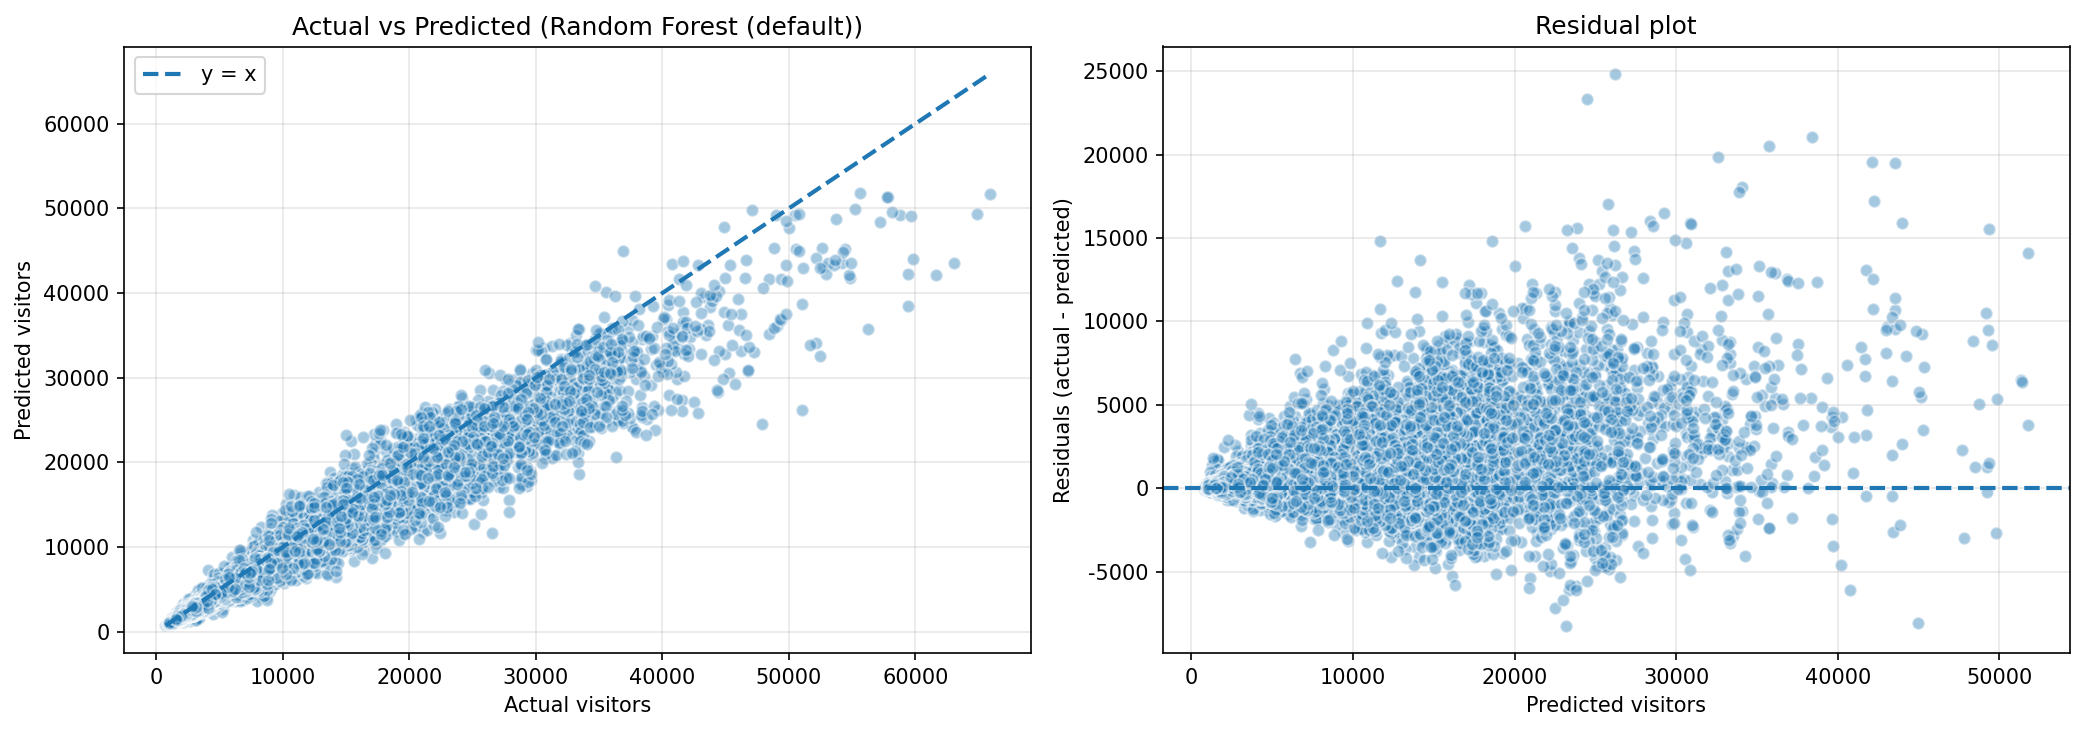
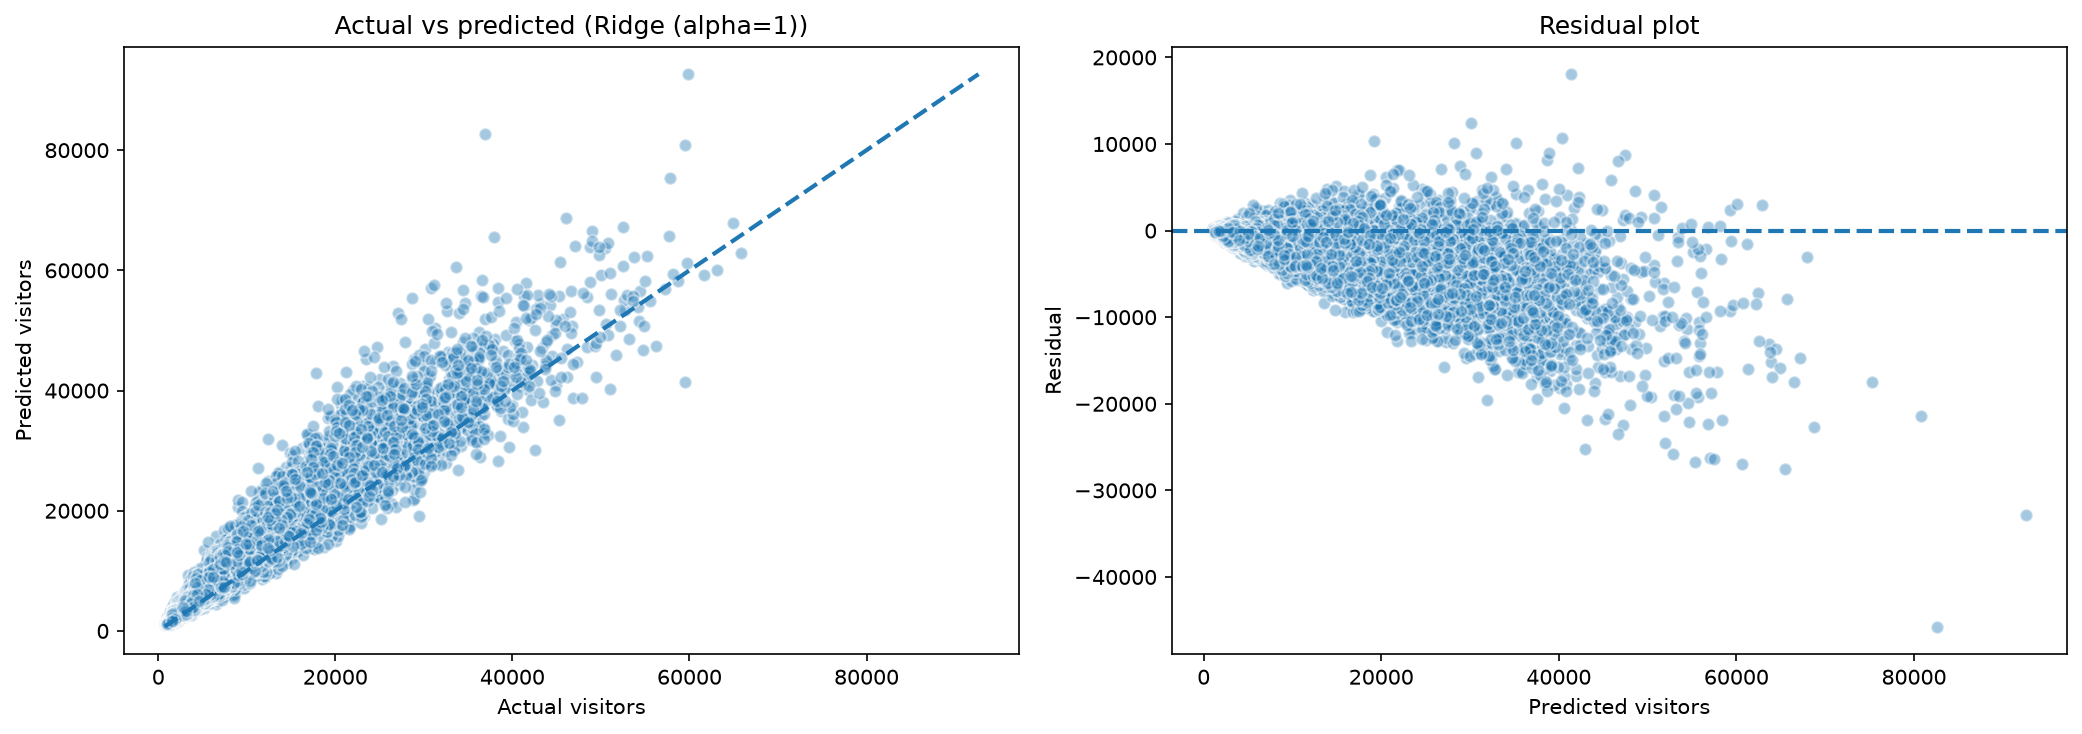
docs: report regenerated holdout results

diff --git a/README.md b/README.md
@@ -1,80 +1,95 @@
 # Seoul Tourism Visitor Forecast
 
-서울 주요 관광지의 일별 방문객 수를 2020-2024년 데이터로 예측하는 회귀 모델 프로젝트입니다. 2020-2023년 데이터를 학습에 사용하고, 2024년 데이터를 테스트셋으로 분리해 시계열 누수를 줄였습니다.
+## Overview
 
-## Project Structure
-
-```text
-tourist-forecast/
-├─ data/
-│  └─ seoul_tourism_2020_2024_clean_common.csv
-├─ docs/
-│  └─ analysis_summary.md
-├─ outputs/
-│  ├─ figures/
-│  └─ tables/
-├─ src/
-│  └─ train_regression_models.py
-├─ .gitignore
-├─ README.md
-└─ requirements.txt
-```
+서울 주요 관광지의 일별 방문객 수를 회귀 모델로 예측하고, 미래 연도에 대한 성능을 시간 순서대로 평가하는 프로젝트입니다. 모델은 방문객 수의 `log1p` 값을 학습하고, 원래 방문객 수 단위로 복원해 MSE, MAE, R²를 계산합니다.
 
 ## Data
 
-- Period: 2020-2024
+- Period: 2020-01-01 through 2024-12-31
+- Unit: day × tourism point of interest (POI)
 - Target: `daily_visitors`
-- Main features: date features, POI attributes, weather, air quality, tourism comfort index, accessibility, event/holiday variables
-- Leakage-prone fields such as `foreign_visitors`, `foreign_share`, and `crowd_level` are excluded from modeling because they are likely unavailable before the visit outcome is observed.
+- Feature groups: calendar, POI attributes, weather, air quality, events, accessibility
 
-## Modeling
+`foreign_visitors`, `foreign_share`, `crowd_level`은 목표값이 관측되기 전에 알 수 있다고 보기 어려워 모델에서 제외합니다. 범주형 인코딩과 결측치 처리는 sklearn `Pipeline`과 `ColumnTransformer` 안에서 학습 기간에만 fit됩니다.
 
-The script compares several regression models on the original visitor-count scale after training with `log1p(daily_visitors)`.
+데이터 제공기관, 원본 URL, 라이선스, 다운로드 날짜, 재배포 가능 여부는 현재 저장소만으로 확인할 수 없습니다. 자세한 TODO는 [`data/README.md`](data/README.md)에 있습니다. 재배포 권한을 확인하기 전에는 포함된 CSV를 공개 배포 가능하다고 가정하면 안 됩니다.
 
-- Baseline: train-set mean prediction
+## Evaluation Design
+
+```text
+2020-2022  train and fit preprocessing
+2023       validation for model and hyperparameter selection
+2020-2023  retrain the selected configuration
+2024       final holdout evaluation
+```
+
+2024 결과는 모델 종류나 하이퍼파라미터 선택에 사용하지 않습니다. Linear Regression, Ridge, Decision Tree와 네 가지 Random Forest 설정을 2023 validation MSE로 비교한 뒤 한 모델을 선택합니다. 선택 후 train+validation 기간으로 다시 학습하고 2024를 최종 평가합니다.
+
+## Models
+
 - Linear Regression
-- Ridge
-- LASSO
+- Ridge (`alpha=1`, `alpha=10`)
 - Decision Tree
-- Random Forest
-- Polynomial Regression
-- Random Forest parameter sweep
+- Random Forest parameter candidates
 
-The final residual and feature-importance analysis uses the best Random Forest model by 2024 test MSE.
+모든 학습 모델은 `log1p(daily_visitors)`를 예측합니다. 평가 전 `expm1`으로 복원하고 음수 예측을 0으로 제한합니다.
 
-## How to Run
+## Baselines
+
+- Train mean: 과거 학습 기간의 전체 평균을 예측
+- POI-month-weekday seasonal mean: 과거 데이터의 `poi_id × month × day_of_week` 평균을 사용하고, 조합이 없으면 POI-month, POI, 전체 평균 순으로 대체
+
+Validation baseline은 2020–2022 타깃만 사용하고, final test baseline은 2020–2023 타깃만 사용합니다. 미래 타깃은 평균 계산에 포함되지 않습니다.
+
+## Results
+
+2023 validation에서 Ridge (`alpha=1`)가 가장 낮은 MSE를 기록해 최종 모델로 선택되었습니다.
+
+| Validation model | MSE | MAE | R² |
+|---|---:|---:|---:|
+| Ridge (`alpha=1`) | 4,079,333.3 | 1,204.1 | 0.9289 |
+| Ridge (`alpha=10`) | 4,152,509.9 | 1,207.8 | 0.9276 |
+| Linear Regression | 4,590,579.1 | 1,304.4 | 0.9199 |
+| Best Random Forest candidate (`RF_C`) | 8,290,972.1 | 1,847.9 | 0.8554 |
+| Seasonal baseline | 24,193,735.1 | 3,332.3 | 0.5781 |
+
+선택된 Ridge를 2020–2023 데이터로 다시 학습한 뒤 얻은 2024 holdout 결과입니다.
+
+| Final 2024 evaluation | MSE | MAE | R² |
+|---|---:|---:|---:|
+| Selected Ridge (`alpha=1`) | 12,643,390.6 | 2,309.2 | 0.8167 |
+| Seasonal baseline | 24,887,899.6 | 3,358.6 | 0.6392 |
+| Train mean baseline | 80,177,671.9 | 5,687.6 | -0.1623 |
+
+이 수치는 수정된 evaluation pipeline을 2026-08-31에 실행해 재생성했습니다. 이전의 Random Forest R² 0.9273 결과는 2024 test set으로 모델을 선택한 평가에서 나온 값이므로 최종 성능으로 유지하지 않습니다.
+
+## Run
 
 ```bash
 pip install -r requirements.txt
 python src/train_regression_models.py
 ```
 
-Running the script creates result files under:
+주요 출력:
 
-- `outputs/figures/`
-- `outputs/tables/`
-
-## Key Outputs
-
-- `outputs/tables/model_comparison_with_rf_sweep.csv`
-- `outputs/tables/rf_parameter_sweep.csv`
-- `outputs/tables/top_feature_importance.csv`
+- `outputs/tables/model_selection_validation.csv`
+- `outputs/tables/rf_parameter_sweep_validation.csv`
+- `outputs/tables/final_test_metrics.csv`
 - `outputs/tables/top_residual_cases.csv`
-- `outputs/figures/model_comparison_with_rf_sweep.png`
-- `outputs/figures/top_feature_importance.png`
-- `outputs/figures/actual_vs_predicted_and_residuals.png`
+- `outputs/tables/evaluation_protocol.json`
+- `outputs/figures/model_selection_validation.png`
+- `outputs/figures/final_test_metrics.png`
 
-## Current Result
+## Data Source
 
-With leakage-prone visitor-derived fields excluded, the best model in the current run is `Random Forest (default)`.
+현재 CSV의 provenance와 재배포 권한은 확인되지 않았습니다. 공개 저장소를 유지하기 전에 원본 수집 기록과 이용 조건을 수동으로 확인해야 합니다. 확인 결과 재배포가 불가능하면 데이터 파일을 별도 변경에서 제거하고 공식 다운로드 및 전처리 절차를 문서화해야 합니다.
 
-| Model | Test MSE | Test MAE | Test R2 |
-|---|---:|---:|---:|
-| Random Forest (default) | 5,015,768.8 | 1,267.1 | 0.9273 |
-| Random Forest (sweep_best) | 5,557,737.4 | 1,292.7 | 0.9194 |
-| Polynomial Regression | 16,781,533.0 | 2,335.7 | 0.7567 |
-| Baseline (Train mean) | 80,177,671.9 | 5,687.6 | -0.1623 |
+## Limitations
 
-## Notes
-
-The included CSV is about 14 MB. If the data source or license changes, replace the file in `data/` and keep the same filename, or update `DATA_PATH` in `src/train_regression_models.py`.
+- 단일 연도 validation과 test이므로 여러 시점에 대한 안정성을 충분히 평가하지 못합니다.
+- 실제 미래 예측에서는 날씨 관련 입력을 예보 시점에 이용 가능한 값으로 바꿔야 합니다.
+- POI와 시계열의 구조가 고정되어 있어 신규 관광지에 대한 성능은 별도로 검증되지 않았습니다.
+- 수요 충격과 휴업·정책 변화 같은 외생 변수를 모두 반영하지 못합니다.
+- 모델 계수와 Random Forest importance는 인과효과가 아닙니다.
+- 데이터 출처와 라이선스가 문서화되지 않아 공개 배포 적합성을 확인해야 합니다.

diff --git a/docs/analysis_summary.md b/docs/analysis_summary.md
@@ -1,51 +1,40 @@
 # Analysis Summary
 
-## Objective
+## Evaluation Protocol
 
-Predict daily visitors for Seoul tourism points of interest using 2020-2024 data.
+- Train: 2020–2022
+- Validation: 2023
+- Test: 2024
+- Selection metric: 2023 validation MSE on the original visitor scale
+- Final fit: selected configuration retrained on 2020–2023
+- Final evaluation: 2024 holdout after selection
 
-## Evaluation Design
+Preprocessing is contained in sklearn pipelines. Imputation, scaling, and one-hot category discovery are fitted on the current training period and reused without refitting on validation or test data.
 
-- Train period: 2020-2023
-- Test period: 2024
-- Target transformation: `log1p(daily_visitors)` for model fitting, then `expm1` for evaluation on the original visitor scale
-- Metrics: MSE, MAE, R2
+## Model Selection
 
-## Modeling Flow
+Ridge (`alpha=1`) had the lowest 2023 validation MSE (4,079,333.3) among the evaluated regressors and baselines. The strongest Random Forest candidate had validation MSE 8,290,972.1.
 
-1. Load cleaned tourism dataset.
-2. Add date-derived features such as year, month, and day of year.
-3. One-hot encode categorical columns except identifier/name columns.
-4. Remove leakage-prone fields that are likely unavailable at prediction time: `foreign_visitors`, `foreign_share`, and `crowd_level`.
-5. Impute numeric missing values and standardize numeric features.
-6. Train baseline and regression models.
-7. Compare Random Forest parameter candidates.
-8. Analyze residuals and feature importance for the best Random Forest model.
+## Final Holdout
 
-## Main Artifacts
+After retraining Ridge on 2020–2023, the 2024 holdout result was:
 
-After running `python src/train_regression_models.py`, review:
+| MSE | MAE | R² |
+|---:|---:|---:|
+| 12,643,390.6 | 2,309.2 | 0.8167 |
 
-- `outputs/tables/model_comparison_with_rf_sweep.csv`
-- `outputs/tables/rf_parameter_sweep.csv`
-- `outputs/tables/top_feature_importance.csv`
+The past-only POI-month-weekday baseline reached MSE 24,887,899.6 and R² 0.6392 on the same holdout. The selected model therefore improved on a seasonal baseline, not only on a global mean baseline.
+
+## Interpretation
+
+The corrected R² is lower than the repository's earlier 0.9273 claim because the earlier workflow selected a Random Forest using 2024 test error. That result is no longer treated as a final holdout estimate. The current result keeps 2024 out of model and hyperparameter selection.
+
+## Artifacts
+
+- `outputs/tables/model_selection_validation.csv`
+- `outputs/tables/rf_parameter_sweep_validation.csv`
+- `outputs/tables/final_test_metrics.csv`
 - `outputs/tables/top_residual_cases.csv`
-- `outputs/figures/`
+- `outputs/tables/evaluation_protocol.json`
 
-## Current Result
-
-With leakage-prone visitor-derived fields excluded, `Random Forest (default)` performs best in the current run:
-
-| Model | Test MSE | Test MAE | Test R2 |
-|---|---:|---:|---:|
-| Random Forest (default) | 5,015,768.8 | 1,267.1 | 0.9273 |
-| Random Forest (sweep_best) | 5,557,737.4 | 1,292.7 | 0.9194 |
-| Polynomial Regression | 16,781,533.0 | 2,335.7 | 0.7567 |
-| Baseline (Train mean) | 80,177,671.9 | 5,687.6 | -0.1623 |
-
-## Limitations
-
-- The test split is year-based, so results reflect 2024 generalization rather than random holdout performance.
-- Feature importance is model-based and should be interpreted as an exploratory signal, not a causal explanation.
-- Hyperparameter search is a small manual sweep, not an exhaustive optimization.
-- Excluding leakage-prone visitor-derived fields gives a more conservative but more realistic forecasting setup.
+The selected model is linear, so an impurity-based feature-importance artifact is not produced. Coefficients require care because they follow scaling and one-hot encoding and are not causal effects.
